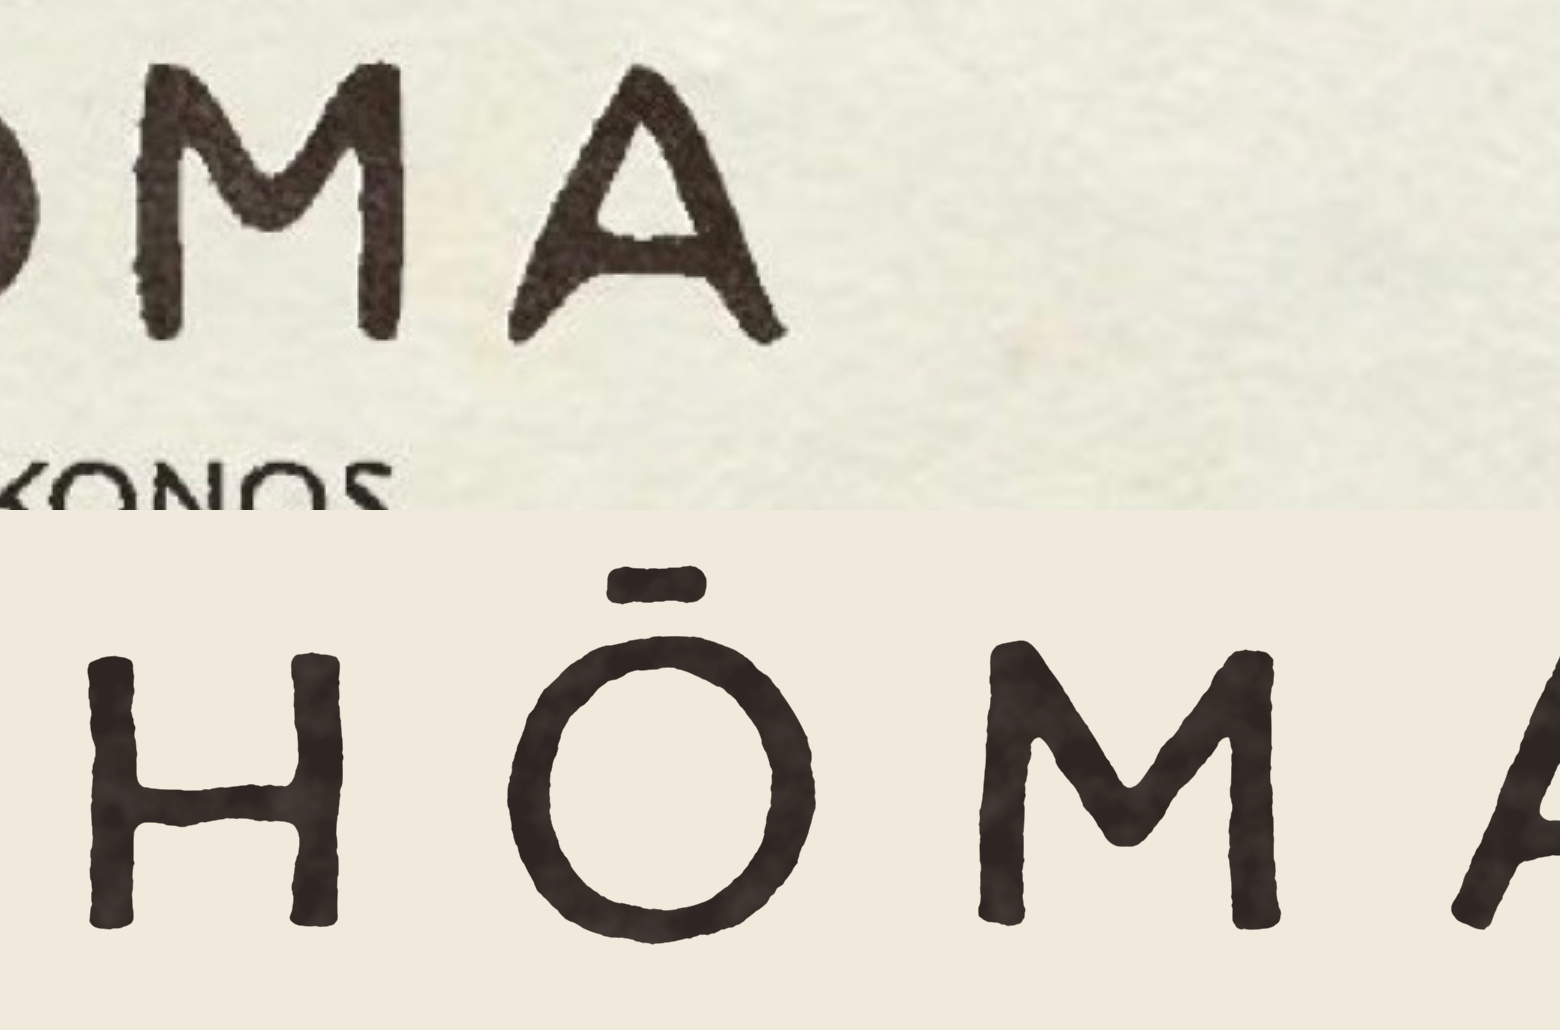
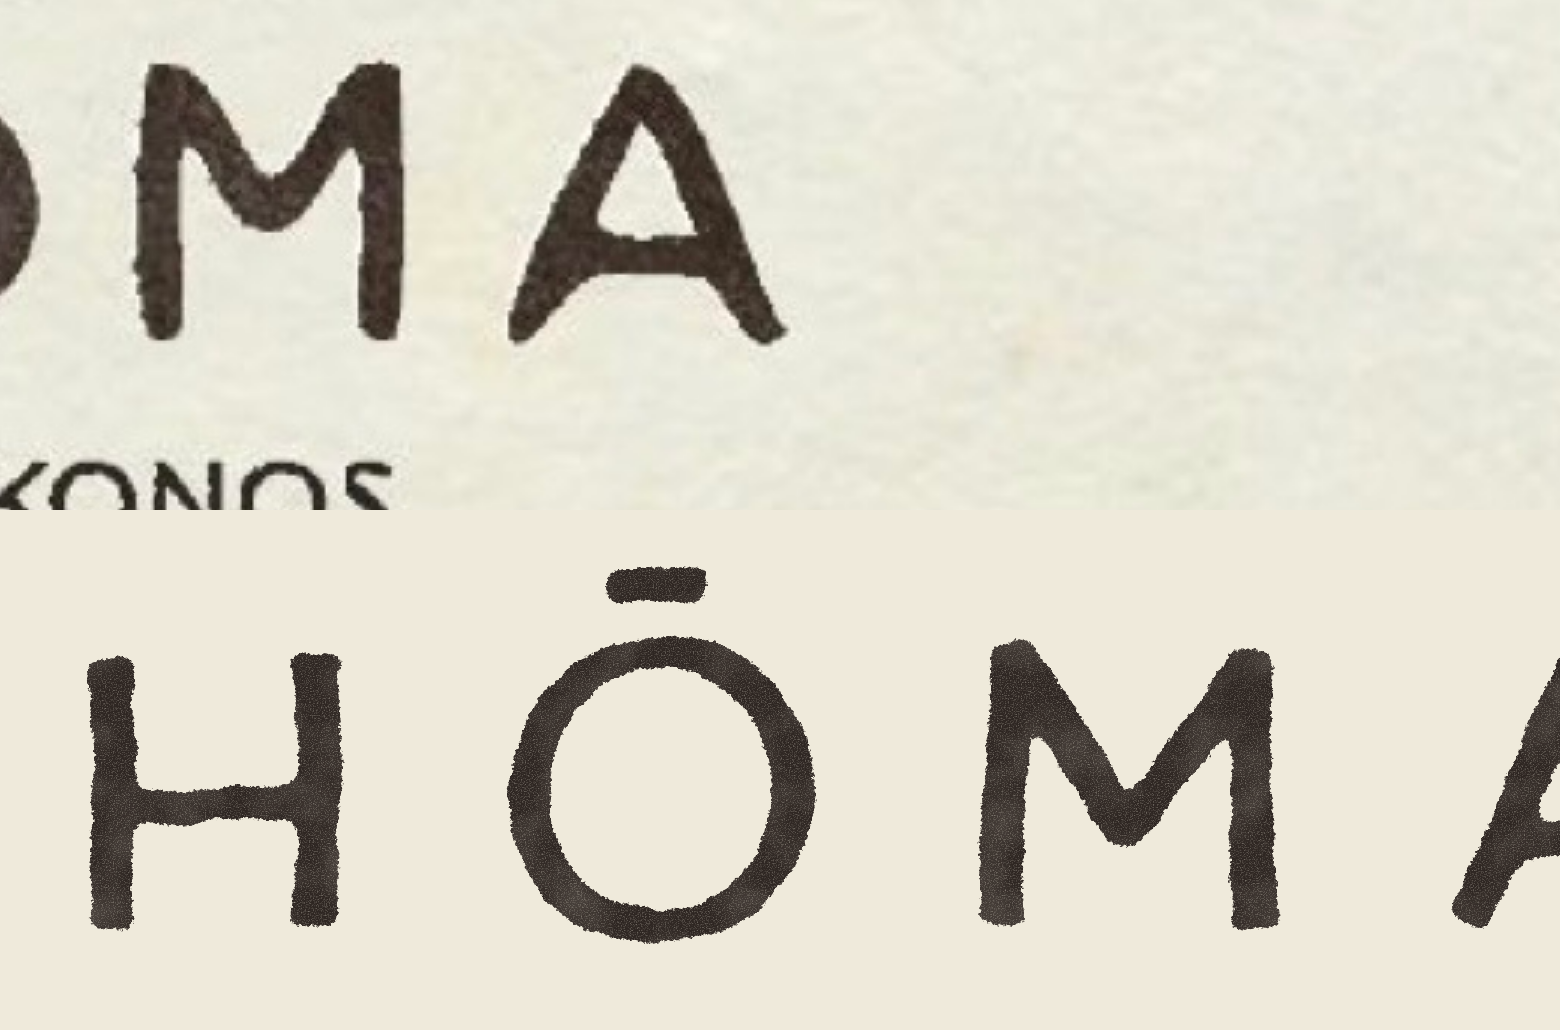
Add fibrous ink edges and paper grain to Raíz lettering
Claude-Session: https://claude.ai/code/session_01VVTUXq9TCX93BjFoPy8Wcy

diff --git a/tipografia/lettering.js b/tipografia/lettering.js
@@ -50,18 +50,27 @@ let fid=0;
 function makeFilter(defs,cap,color,o){
  const id='raiz'+(fid++), s=cap/100, seed=o.seed||7;
  const f=el('filter',{id,x:'-10%',y:'-40%',width:'120%',height:'180%','color-interpolation-filters':'sRGB'});
- f.innerHTML=`
+f.innerHTML=`
   <feTurbulence type="fractalNoise" baseFrequency="${(0.05/s).toFixed(5)}" numOctaves="3" seed="${seed}" result="w"/>
   <feDisplacementMap in="SourceGraphic" in2="w" scale="${(o.wobble??3.4)*s}" xChannelSelector="R" yChannelSelector="G" result="d1"/>
   <feGaussianBlur in="d1" stdDeviation="${(o.ink??3.0)*s}" result="b"/>
-  <feComponentTransfer in="b" result="g"><feFuncA type="linear" slope="14" intercept="-6.3"/></feComponentTransfer>
-  <feTurbulence type="fractalNoise" baseFrequency="${(0.14/s).toFixed(5)}" numOctaves="3" seed="${seed+5}" result="r"/>
-  <feDisplacementMap in="g" in2="r" scale="${(o.fiber??1.8)*s}" xChannelSelector="R" yChannelSelector="G" result="d2"/>
-  <feGaussianBlur in="d2" stdDeviation="${(0.32*s).toFixed(2)}" result="soft"/>
-  <feComponentTransfer in="soft" result="edge"><feFuncA type="linear" slope="2.2" intercept="-0.55"/></feComponentTransfer>
-  <feTurbulence type="fractalNoise" baseFrequency="${(0.06/s).toFixed(5)}" numOctaves="3" seed="${seed+11}" result="m"/>
-  <feColorMatrix in="m" type="matrix" values="0 0 0 0 0  0 0 0 0 0  0 0 0 0 0  0.22 0 0 0 0.86" result="mA"/>
-  <feComposite in="edge" in2="mA" operator="arithmetic" k1="1" result="ink"/>
+  <!-- borde fibroso: ruido fino sumado antes del umbral -->
+  <feTurbulence type="fractalNoise" baseFrequency="${(o.fiberF??0.3)}" numOctaves="3" seed="${seed+5}" result="fn"/>
+  <feColorMatrix in="fn" type="matrix" values="0 0 0 0 0  0 0 0 0 0  0 0 0 0 0  1 0 0 0 0" result="fnA"/>
+  <feTurbulence type="fractalNoise" baseFrequency="${(0.12/s).toFixed(5)}" numOctaves="2" seed="${seed+6}" result="mn"/>
+  <feColorMatrix in="mn" type="matrix" values="0 0 0 0 0  0 0 0 0 0  0 0 0 0 0  1 0 0 0 0" result="mnA"/>
+  <feComposite in="fnA" in2="mnA" operator="arithmetic" k2="${o.edge??0.28}" k3="0.3" result="nz"/>
+  <feComposite in="b" in2="nz" operator="arithmetic" k2="1" k3="1" k4="-0.29" result="bn"/>
+  <feComponentTransfer in="bn" result="g"><feFuncA type="linear" slope="13" intercept="-6.0"/></feComponentTransfer>
+  <feGaussianBlur in="g" stdDeviation="0.45" result="soft"/>
+  <feComponentTransfer in="soft" result="edge"><feFuncA type="linear" slope="1.6" intercept="-0.3"/></feComponentTransfer>
+  <!-- grano del papel dentro de la tinta -->
+  <feTurbulence type="fractalNoise" baseFrequency="${o.grainF??0.75}" numOctaves="2" seed="${seed+9}" result="gr"/>
+  <feColorMatrix in="gr" type="matrix" values="0 0 0 0 0  0 0 0 0 0  0 0 0 0 0  ${o.grain??0.9} 0 0 0 ${0.98-(o.grain??0.9)*0.5}" result="grA"/>
+  <feTurbulence type="fractalNoise" baseFrequency="${(0.05/s).toFixed(5)}" numOctaves="3" seed="${seed+11}" result="m"/>
+  <feColorMatrix in="m" type="matrix" values="0 0 0 0 0  0 0 0 0 0  0 0 0 0 0  0.3 0 0 0 0.82" result="mA"/>
+  <feComposite in="grA" in2="mA" operator="arithmetic" k1="1" result="tex"/>
+  <feComposite in="edge" in2="tex" operator="arithmetic" k1="1" result="ink"/>
   <feFlood flood-color="${color}"/><feComposite in2="ink" operator="in"/>`;
  defs.appendChild(f); return id;
 }
